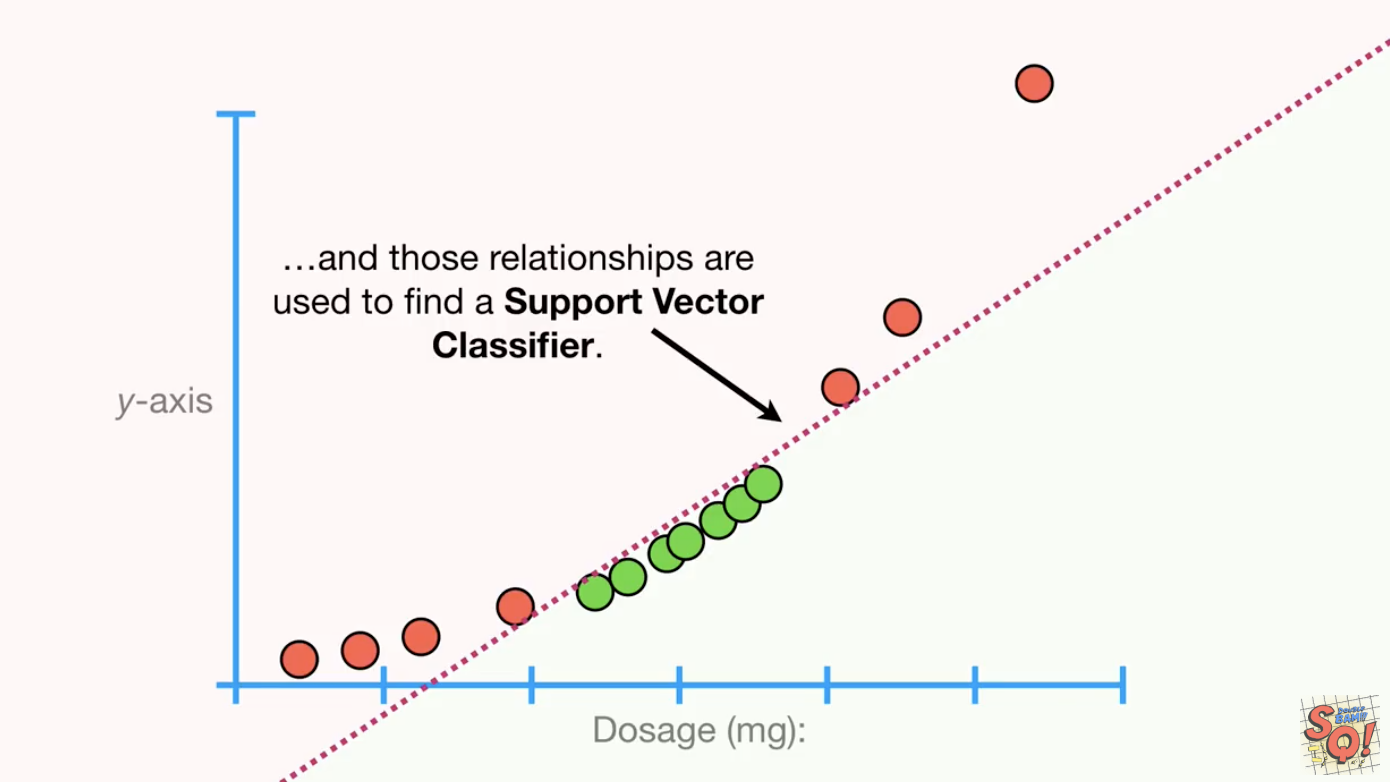
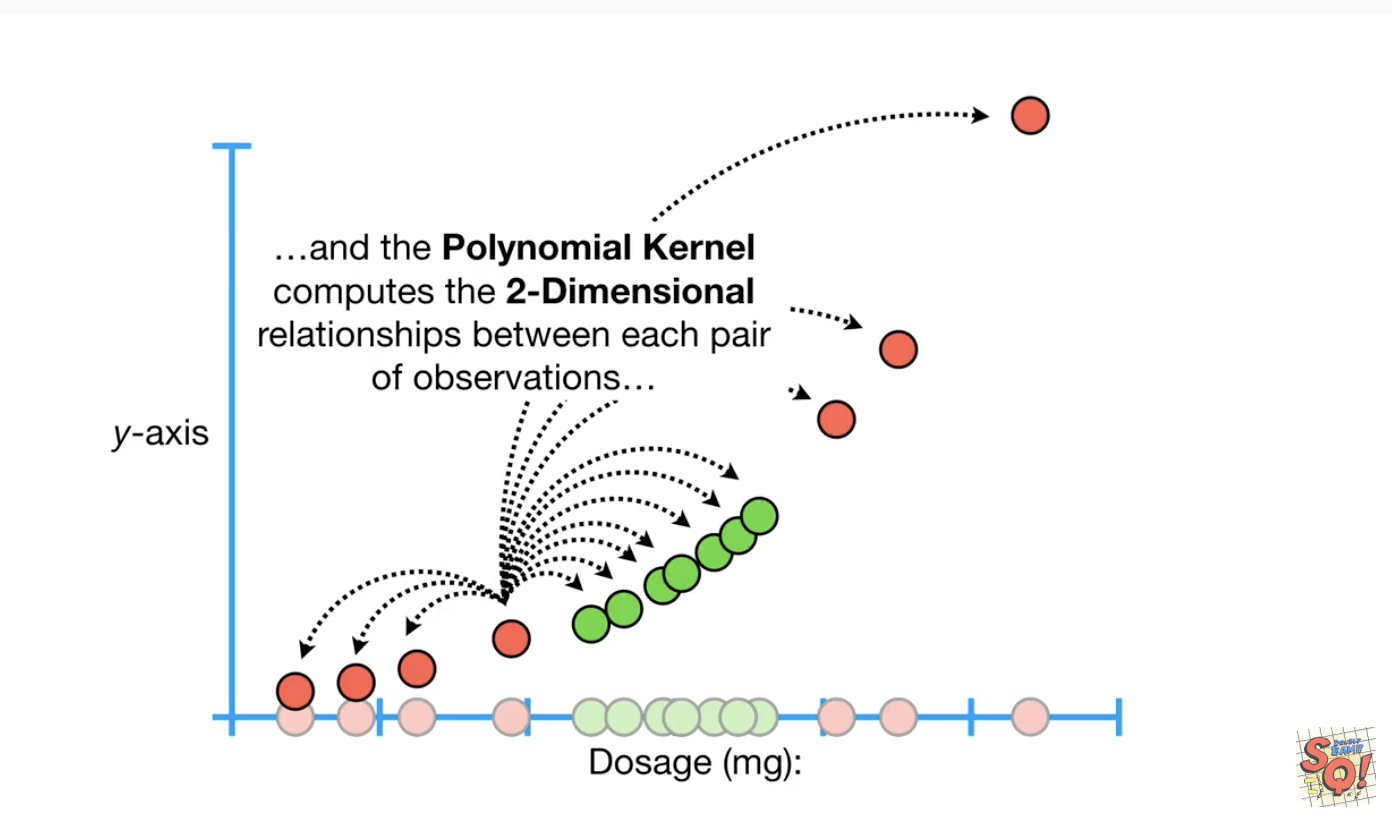
Added image explaining polynomial kernel process

diff --git a/SupportVectorMachines.md b/SupportVectorMachines.md
@@ -30,6 +30,7 @@ The main ideas behind Support Vector Machines:
   - When d = 1, the Polynomial Kernel computes the relationships between each pair of observations in _1-Dimension_ and these relationships are used to find a SVC.
   - When d = 2, the Polynomial Kernel computes the relationships between each pair of observations in _2-Dimensions_.
   
-  ![x](images/polynomialkernel_d2.png)
-  
+  | ![x](images/polynomialkernel_d2.png) |
+  | :-: |
+  | ![x](images/polynomialkernel_d2_svc.png) |
   
